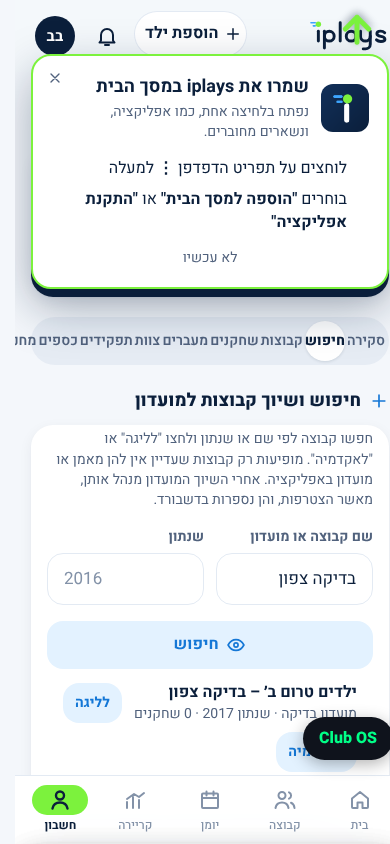
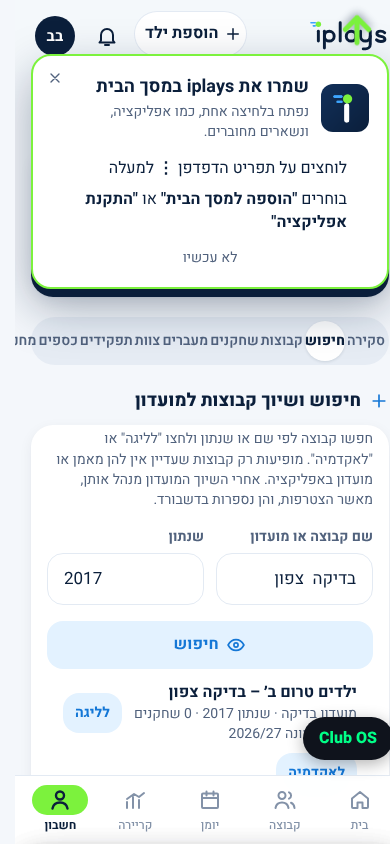
Club OS: owners/admins get every club team; clearer club search
- Club OS team picker now also lists all teams of clubs where the account is
  owner/admin (labelled 'הנהלת מועדון'); my_level() already grants them full
  access, so team screens (coach home, calendar, player card, plans, training
  day) open for them. Decision by the user 2026-11-09.
- Club 'חיפוש' tab: each hit shows league, season and the roster's main birth
  year (new read-only adopt_candidates_info(), optional: UI works without it),
  and asks for confirmation before adopting (no undo button yet).
- Production part 8 (guarded) adds only that function.

Claude-Session: https://claude.ai/code/session_01RCpq641rJzBWYG7efNzVJL

diff --git a/src/os/OsApp.tsx b/src/os/OsApp.tsx
@@ -2,6 +2,8 @@ import { useEffect, useState } from 'react';
 import { useAuth } from '../auth/AuthContext';
 import { Icon } from '../components/Icon';
 import { roleLabel, type MyTeam } from '../lib/api';
+import { getMyClubs } from '../lib/clubApi';
+import { supabase } from '../lib/supabase';
 import { envLabel } from './env';
 import { findModule, modules, type OsModule } from './modules';
 import { NoData, NotBuilt, StatusBadge } from './StateView';
@@ -55,6 +57,20 @@ function readTheme(): Theme {
 /** Staff roles see the Club OS; a parent-only account gets a clear note instead. */
 const staffRoles = new Set(['admin', 'coach', 'assistant_coach', 'instructor', 'team_manager']);
 
+/** Teams of the clubs where this account is owner or admin. */
+async function loadClubTeams(): Promise<MyTeam[]> {
+  const clubs = (await getMyClubs()).filter((c) => c.role === 'owner' || c.role === 'admin');
+  if (!clubs.length || !supabase) return [];
+  const { data, error } = await supabase
+    .from('teams')
+    .select('id, name, club, season, sport, league')
+    .in('club_id', clubs.map((c) => c.id))
+    .is('archived_at', null)
+    .order('name');
+  if (error) throw error;
+  return ((data ?? []) as Omit<MyTeam, 'role'>[]).map((t) => ({ ...t, role: 'admin' as MyTeam['role'] }));
+}
+
 export function OsApp() {
   const auth = useAuth();
   const [{ section, param, sub }, setLoc] = useState(readOsHash);
@@ -64,7 +80,20 @@ export function OsApp() {
     return () => window.removeEventListener('hashchange', on);
   }, []);
 
-  const staffTeams = auth.teams.filter((t) => staffRoles.has(t.role));
+  const ownTeams = auth.teams.filter((t) => staffRoles.has(t.role));
+  // Club owner/admin: every team of the club (the database already gives them full access).
+  const [clubTeams, setClubTeams] = useState<MyTeam[]>([]);
+  useEffect(() => {
+    let live = true;
+    loadClubTeams()
+      .then((t) => live && setClubTeams(t))
+      .catch(() => undefined);
+    return () => {
+      live = false;
+    };
+  }, [auth.session?.user.id]);
+  const clubOnly = new Set(clubTeams.filter((t) => !ownTeams.some((o) => o.id === t.id)).map((t) => t.id));
+  const staffTeams = [...ownTeams, ...clubTeams.filter((t) => clubOnly.has(t.id))];
   const [teamId, setTeamId] = useState<string | null>(readTeamChoice);
   const team: MyTeam | undefined = staffTeams.find((t) => t.id === teamId) ?? staffTeams[0];
   const pickTeam = (id: string) => {
@@ -126,7 +155,7 @@ export function OsApp() {
                 <select value={team?.id} onChange={(e) => pickTeam(e.target.value)}>
                   {staffTeams.map((t) => (
                     <option key={t.id} value={t.id}>
-                      {t.name} · {roleLabel[t.role]}
+                      {t.name} · {clubOnly.has(t.id) ? 'הנהלת מועדון' : roleLabel[t.role]}
                     </option>
                   ))}
                 </select>

diff --git a/src/screens/ClubScreen.tsx b/src/screens/ClubScreen.tsx
@@ -14,6 +14,8 @@ import { friendlyError } from '../lib/api';
 import { findTeams, teamYearLabel, type FoundTeam } from '../lib/joinApi';
 import {
   adoptTeam,
+  adoptCandidatesInfo,
+  type AdoptInfo,
   clubError,
   clubRoleLabel,
   clubStatusLabel,
@@ -396,6 +398,7 @@ function AdoptSection({ clubId, programs, onAdopted }: { clubId: string; program
   const [year, setYear] = useState('');
   const [hits, setHits] = useState<FoundTeam[] | null>(null);
   const [hidden, setHidden] = useState(0);
+  const [info, setInfo] = useState<Map<string, AdoptInfo>>(new Map());
   const [error, setError] = useState<string | null>(null);
   const by = year.length === 4 ? Number(year) : null;
 
@@ -407,12 +410,18 @@ function AdoptSection({ clubId, programs, onAdopted }: { clubId: string; program
       const free = all.filter((t) => !t.club_id && !t.has_staff);
       setHidden(all.length - free.length);
       setHits(free);
+      setInfo(new Map());
+      // Extra detail to tell look-alike teams apart; optional (older databases lack it).
+      adoptCandidatesInfo(free.map((t) => t.team_id))
+        .then((rows) => setInfo(new Map(rows.map((r) => [r.team_id, r]))))
+        .catch(() => undefined);
     } catch (err) {
       setError(errText(err));
     }
   }
 
-  async function adopt(t: FoundTeam, programId: string) {
+  async function adopt(t: FoundTeam, programId: string, programName: string) {
+    if (!window.confirm(`לשייך את "${t.name}" ל${programName} של המועדון? אחרי השיוך המועדון מנהל את הקבוצה.`)) return;
     setError(null);
     try {
       await adoptTeam(t.team_id, clubId, programId);
@@ -454,9 +463,18 @@ function AdoptSection({ clubId, programs, onAdopted }: { clubId: string; program
               <span className="ip-list-row-text">
                 <span className="ip-list-row-title">{t.name}</span>
                 <span className="ip-list-row-sub">{[t.club_name, teamYearLabel(t), `${t.players} שחקנים`].filter(Boolean).join(' · ')}</span>
+                {info.get(t.team_id) && (
+                  <span className="ip-list-row-sub">
+                    {[
+                      info.get(t.team_id)!.league,
+                      info.get(t.team_id)!.season && `עונה ${info.get(t.team_id)!.season}`,
+                      info.get(t.team_id)!.roster_year && `רוב הסגל: ${info.get(t.team_id)!.roster_year}`,
+                    ].filter(Boolean).join(' · ')}
+                  </span>
+                )}
               </span>
               {programs.map((p) => (
-                <Button key={p.id} variant="secondary" size="sm" onClick={() => void adopt(t, p.id)}>
+                <Button key={p.id} variant="secondary" size="sm" onClick={() => void adopt(t, p.id, p.name)}>
                   ל{p.name}
                 </Button>
               ))}

diff --git a/src/lib/clubApi.ts b/src/lib/clubApi.ts
@@ -135,6 +135,16 @@ export async function adoptTeam(teamId: string, clubId: string, programId: strin
   if (error) throw error;
 }
 
+/** League, season and the roster's main birth year for teams still free to adopt.
+ *  adopt_candidates_info(): supabase/migrations/20261109100000_adopt_candidates_info.sql */
+export interface AdoptInfo { team_id: string; league: string; season: string; roster_year: number | null; roster_players: number }
+export async function adoptCandidatesInfo(teamIds: string[]): Promise<AdoptInfo[]> {
+  if (!teamIds.length) return [];
+  const { data, error } = await db().rpc('adopt_candidates_info', { p_teams: teamIds.slice(0, 100) });
+  if (error) throw error;
+  return (data ?? []) as AdoptInfo[];
+}
+
 export async function setTeamProgram(teamId: string, programId: string | null) {
   const { error } = await db().rpc('set_team_program', { p_team: teamId, p_program: programId });
   if (error) throw error;
